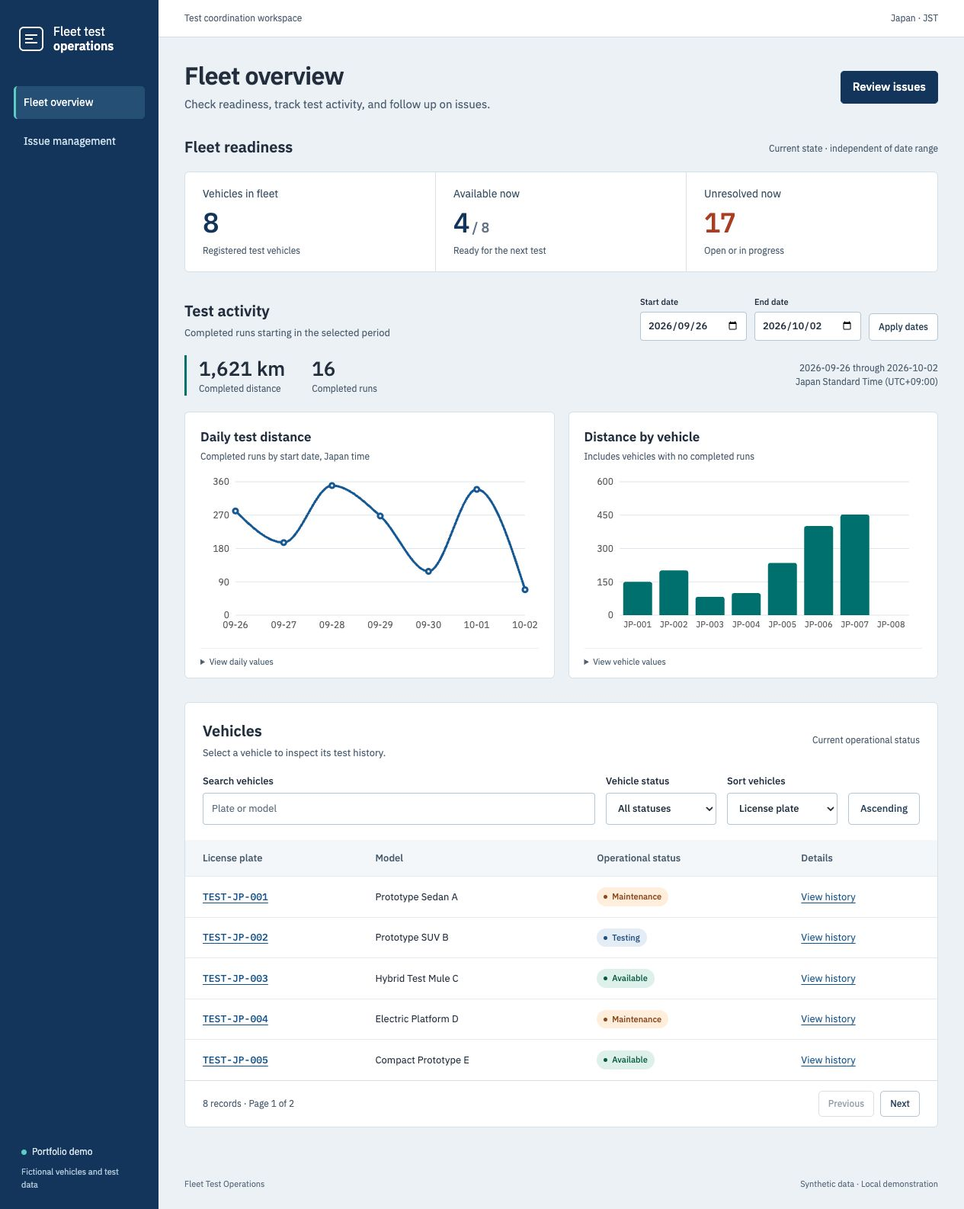
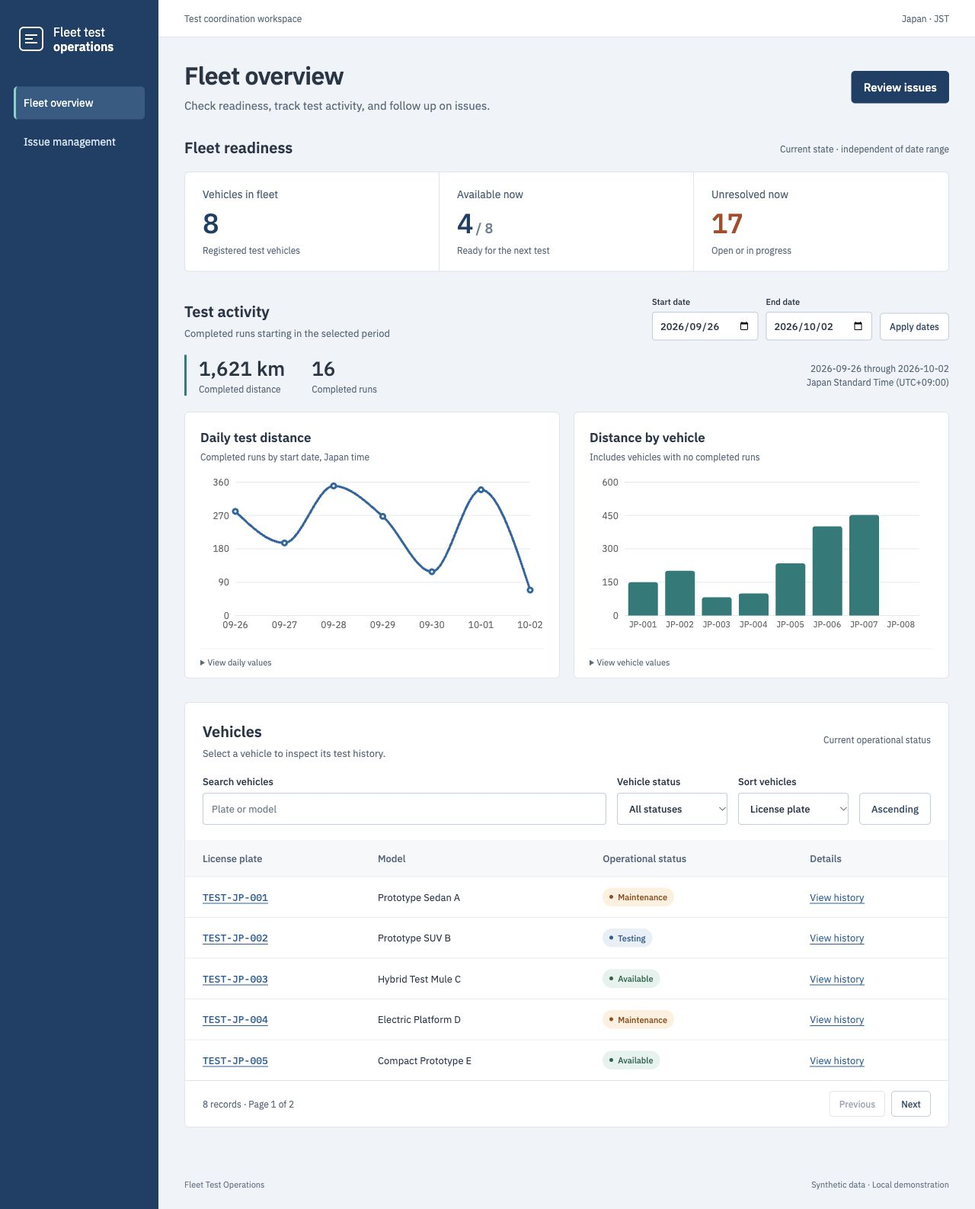
style: remove portfolio label and add README language switch

diff --git a/apps/web/src/styles.css b/apps/web/src/styles.css
@@ -175,25 +175,6 @@ summary:focus-visible {
   border-left: 3px solid #76d2ca;
   padding-left: 10px;
 }
-.rail-footer {
-  margin-top: auto;
-  padding: 0 10px;
-  color: #e0eaf1;
-  font-size: 12px;
-}
-.rail-footer p {
-  color: #b9ccdf;
-  font-size: 11px;
-  margin: 9px 0 0;
-}
-.demo-indicator {
-  display: inline-block;
-  width: 7px;
-  height: 7px;
-  background: #76d2ca;
-  border-radius: 50%;
-  margin-right: 7px;
-}
 .workspace {
   min-width: 0;
 }
@@ -697,9 +678,6 @@ tbody tr:hover {
     border-left: 0;
     border-bottom: 2px solid #76d2ca;
     padding-left: 9px;
-  }
-  .rail-footer {
-    display: none;
   }
   .workspace-bar {
     padding: 11px 20px;

diff --git a/apps/web/src/App.tsx b/apps/web/src/App.tsx
@@ -26,10 +26,6 @@ export function App() {
           </NavLink>
           <NavLink to="/issues">Issue management</NavLink>
         </nav>
-        <div className="rail-footer">
-          <span className="demo-indicator" />
-          Portfolio demo<p>Fictional vehicles and test data</p>
-        </div>
       </aside>
       <div className="workspace">
         <div className="workspace-bar">

diff --git a/README.md b/README.md
@@ -1,8 +1,10 @@
 # Fleet Test Operations Dashboard
 
+[![Language: English. Switch to Japanese.](docs/readme-language-en.svg)](README.ja.md)
+
 A working full-stack portfolio demo for an automotive test coordinator: identify available vehicles, inspect test evidence, and record incident follow-up.
 
-Built with **React + TypeScript, Express, and PostgreSQL**. All application code and interface copy use English. Expand the Japanese documentation below.
+Built with **React + TypeScript, Express, and PostgreSQL**. All application code and interface copy use English.
 
 This is an independent project using fictional vehicles, drivers, and incidents. The scenario is a proposed business use case; it does not describe Bosch's internal systems.
 
@@ -136,141 +138,3 @@ This is solo development. Automated review is identified as automated. A remote 
 This demo has no authentication, live GPS, sensor streaming, AI inference, or notifications. Incident counts are not a device-health score. It is configured for a local fictional-data demonstration; adding organizational access control would be a separate production requirement.
 
 The [approved design](docs/superpowers/specs/2026-10-02-fleet-test-ops-design.md) and [implementation plan](docs/superpowers/plans/2026-10-02-fleet-test-ops.md) explain scope and acceptance criteria.
-
-<details>
-<summary><strong>日本語版を表示 / Japanese version</strong></summary>
-
-## プロジェクト概要
-
-車両テストの担当者が、利用可能な車両を確認し、テストの記録を調べ、不具合への対応を記録できるフルスタックのポートフォリオです。**React・TypeScript・Express・PostgreSQL**で実装しています。コード、コメント、画面表示、コミット、主要な開発資料は英語です。
-
-車両、運転者、不具合のデータはすべて架空です。独自に提案した業務シナリオであり、Bosch社内の実際のシステムを再現したものではありません。
-
-![ダッシュボード](docs/screenshots/overview.png)
-
-[不具合管理画面](docs/screenshots/issues.png) · [スマートフォン表示](docs/screenshots/overview-mobile.png) · [不具合登録フォーム](docs/screenshots/issue-form-mobile.png)
-
-## 業務上の操作の流れ
-
-**重大な未解決の不具合を確認 → 関連車両とテスト記録を確認 → 不具合を解決・再オープン → 車両の稼働状態を更新 → 再読み込みして保存結果を確認**します。
-
-| 画面           | 実装済みの機能                                                                                         |
-| -------------- | ------------------------------------------------------------------------------------------------------ |
-| ダッシュボード | 現在の車両状況、期間別走行距離、日別・車両別グラフ、数値表、車両の検索・絞り込み・並べ替え・ページ送り |
-| 車両詳細       | 期間指定のテスト履歴、運転者名の記録、走行距離、関連不具合数、稼働状態の保存                           |
-| 不具合管理     | 車両とテスト記録の選択、登録、URLによる絞り込み、重要度・対応状況の変更、解決日時、再オープン          |
-
-初期データは8台の車両、JSTの20日間にわたる60件のテスト、24件の不具合です。テストがない車両と、複数の不具合を持つテストも含みます。保存した変更によって表示件数は変わります。[5分間のデモ手順](docs/demo-walkthrough.md)を面接時の説明に利用できます。
-
-## 指標の定義
-
-| 指標                       | 対象と計算方法                                                                |
-| -------------------------- | ----------------------------------------------------------------------------- |
-| 車両数・現在利用可能な車両 | 全車両の現在の状態。利用可能とは`vehicles.status = 'available'`を指します     |
-| 現在未解決の不具合         | 日付に関係なく、`open`または`in_progress`の全不具合                           |
-| 完了済み走行距離・テスト数 | **開始時刻**が指定したJSTの日付範囲に入る完了済みテスト。中止・実施中は対象外 |
-| 日別走行距離               | 同じ完了済みテストをJSTの開始日で集計。該当テストがない日は0                  |
-| 車両別走行距離             | 同じ期間の集計。走行距離が0の登録車両も表示                                   |
-
-画面の終了日は含まれます。SQLでは翌日のJST午前0時を含まないUTCの半開区間を使います。時刻はJST（UTC+09:00）、距離はkmです。走行距離を不具合との結合前に集計し、1件のテストに複数の不具合があっても距離が重複しないようにしています。未記録の距離は説明付きのダッシュで表示します。
-
-## アーキテクチャと技術構成
-
-![アプリケーション構成図](docs/architecture.svg)
-
-[HTML版の構成図](docs/architecture.html)はダウンロードしてブラウザーで開けます。architecture-diagramスキルのコピー・PNG・PDFツールバーを保持しています。GitHub上では静的SVGをそのまま表示できます。画像・PDF出力は固定バージョンの外部ライブラリを使うため、ネットワーク接続が必要です。ブラウザーでの描画は確認済みですが、自動ダウンロードの取得は確認できませんでした。
-
-| 層             | 技術                                                                          |
-| -------------- | ----------------------------------------------------------------------------- |
-| フロントエンド | React、TypeScript、Vite、React Router、Recharts、同梱のIBM Plexフォント       |
-| API            | Node.js 24、Express 5、パラメータ化したPostgreSQLクエリ                       |
-| 入出力         | 共有TypeScript型とZodによる入力検証                                           |
-| データベース   | PostgreSQL 17、バージョン管理したSQLマイグレーション、再実行可能な初期データ  |
-| テスト         | Vitest、Testing Library、Supertest、実際のPostgreSQL、Playwright Chromium     |
-| 開発プロセス   | 機能ごとのコミット、Issue・PRテンプレート、固定リビジョンのGitHub Actions設定 |
-
-開発時はViteの`/api`プロキシを使います。本番用ビルドではExpressが画面とAPIを同じオリジンで提供します。車両詳細URLを直接開いても画面を表示し、存在しないAPIはJSONの404を返します。データベースの接続情報はサーバー側に保持します。古い読み取りリクエストをキャンセル・無効化し、遅れて届いた応答が新しい絞り込み結果を上書きしないようにしています。
-
-## SQLデータモデル
-
-![車両・テスト記録・不具合の関係図](docs/erd.svg)
-
-- `vehicles`：一意の車両番号、車両情報、現在の稼働状態。
-- `test_runs`：1台の車両に紐づく履歴。運転者名を当時の記録として保存し、開始・終了時刻、状態、距離を保持します。
-- `issues`：1件のテストに紐づく不具合。種類、説明、重要度、対応状況、解決日時を保持します。
-
-不具合の車両はテスト記録から取得するため、`issues`に`vehicle_id`を重複保存しません。外部キー、非負の距離、時刻の前後関係、完了テストの必須項目、状態、説明文の長さ、解決日時の整合性をSQL制約で保証します。`schema_migrations`は適用済みバージョンを記録する補助テーブルです。
-
-[データモデルの設計理由](docs/database-model.md)と[マイグレーション](database/migrations/001_initial.sql)を参照してください。
-
-## ローカル環境での起動
-
-**Node.js 24.x、npm、PostgreSQL 17**が必要です。`node --version`を確認し、リポジトリのルートで実行してください。新しく取得した環境では：
-
-```sh
-npm ci
-cp .env.example .env
-```
-
-インストール時に共有型パッケージを自動ビルドします。データベースの準備方法を選びます。
-
-- **インストール済みPostgreSQL：** [ネイティブ環境の準備手順](docs/local-postgresql.md)に従うか、専用の既存ローカルDBを`DATABASE_URL`に指定します。PostgreSQL 17.5とNode 24.21.0で、依存関係の新規インストールと空DBからの起動を確認しています。
-- **Dockerを使う場合：** `docker compose up -d --wait`を実行します。PostgreSQL 17をループバックの5433番ポートで起動し、`.env.example`のサンプル接続情報を使います。設定は用意していますが、ローカルのDockerが停止していたため起動自体は未検証です。
-
-空いているポートを使い、必要に応じて`DATABASE_URL`を変更してください。その後：
-
-```sh
-npm run db:migrate
-npm run db:seed
-npm run dev
-```
-
-[ローカルデモ](http://127.0.0.1:5173)を開きます。APIは127.0.0.1:3001で動作します。開発中は両アプリケーションと共有型の変更を監視します。
-
-マイグレーションは適用履歴を管理し、初期データの再実行は既存の変更を保持します。初期データの日付は最初に作成した時点を基準にします。日付を新しくしたデモデータに意図的に戻す場合：
-
-```sh
-npm run db:reset-demo
-```
-
-**リセットは`issues`、`test_runs`、`vehicles`に保存した変更を置き換えます。** ループバックの`fleet_ops`というDBに限定し、マイグレーション履歴を保持します。通常の起動とは独立しており、名前付きスクリプトが明示的な確認フラグを渡します。ガードの動作はDBテストで確認しています。
-
-本番用ビルドを起動する場合：
-
-```sh
-npm run build
-npm start
-```
-
-[本番ビルドのデモ](http://127.0.0.1:3001)を開きます。マイグレーションと初期データ投入は別途必要です。アプリケーションはCtrl+Cで停止します。
-
-## 検証
-
-`.env`または`DATABASE_URL`でPostgreSQLに接続できる状態で：
-
-```sh
-npm run format:check
-npm run typecheck
-npm run lint
-npm test
-npm run build
-npx playwright install chromium
-npm run test:e2e
-npm run test:smoke
-```
-
-結合テストは独立したスキーマを作成・削除するため、利用するDBロールにスキーマ作成権限が必要です。ブラウザーテストは専用のAPI・Webサーバー（3002/5174番）を起動し、準備状態を待ってSQLへの保存を確認し、終了後にスキーマを削除します。本番スモークテストはコンパイル済みサーバーを3003番で起動し、ページ遷移、JSONエラー、ビルド済みファイルを確認します。
-
-結果は[検証記録](docs/verification.md)を参照してください。ローカルでの確認と自動レビューを記録しています。GitHub上のCIはまだ実行していません。
-
-## 開発の証跡と制限
-
-[GitHubワークフローの記録](docs/github-workflow.md)に、実際の機能別コミットと検証結果があります。`.github`に業務要件・不具合のフォーム、PRテンプレート、CI設定を用意しています。Actionsは確認済みリリースのコミットに固定しています。
-
-個人開発であり、自動レビューは自動レビューとして記載しています。公開先リポジトリは未指定のため、GitHub Issue・PRの作成、リモートCIの成功、公開デプロイは実施したとは記載していません。
-
-認証、リアルタイムGPS、センサーストリーミング、AI推論、通知機能は対象外です。不具合数から機器の健全性スコアを算出していません。架空データを使ったローカルデモを想定しており、組織向けのアクセス制御は別途必要です。
-
-[承認済みの設計書](docs/superpowers/specs/2026-10-02-fleet-test-ops-design.md)と[実装計画](docs/superpowers/plans/2026-10-02-fleet-test-ops.md)に範囲と受け入れ基準を記載しています。
-
-</details>

diff --git a/README.ja.md b/README.ja.md
@@ -1,0 +1,136 @@
+# Fleet Test Operations Dashboard
+
+[![言語: 日本語。英語に切り替える](docs/readme-language-ja.svg)](README.md)
+
+## プロジェクト概要
+
+車両テストの担当者が、利用可能な車両を確認し、テストの記録を調べ、不具合への対応を記録できるフルスタックのポートフォリオです。**React・TypeScript・Express・PostgreSQL**で実装しています。コード、コメント、画面表示、コミット、主要な開発資料は英語です。
+
+車両、運転者、不具合のデータはすべて架空です。独自に提案した業務シナリオであり、Bosch社内の実際のシステムを再現したものではありません。
+
+![ダッシュボード](docs/screenshots/overview.png)
+
+[不具合管理画面](docs/screenshots/issues.png) · [スマートフォン表示](docs/screenshots/overview-mobile.png) · [不具合登録フォーム](docs/screenshots/issue-form-mobile.png)
+
+## 業務上の操作の流れ
+
+**重大な未解決の不具合を確認 → 関連車両とテスト記録を確認 → 不具合を解決・再オープン → 車両の稼働状態を更新 → 再読み込みして保存結果を確認**します。
+
+| 画面           | 実装済みの機能                                                                                         |
+| -------------- | ------------------------------------------------------------------------------------------------------ |
+| ダッシュボード | 現在の車両状況、期間別走行距離、日別・車両別グラフ、数値表、車両の検索・絞り込み・並べ替え・ページ送り |
+| 車両詳細       | 期間指定のテスト履歴、運転者名の記録、走行距離、関連不具合数、稼働状態の保存                           |
+| 不具合管理     | 車両とテスト記録の選択、登録、URLによる絞り込み、重要度・対応状況の変更、解決日時、再オープン          |
+
+初期データは8台の車両、JSTの20日間にわたる60件のテスト、24件の不具合です。テストがない車両と、複数の不具合を持つテストも含みます。保存した変更によって表示件数は変わります。[5分間のデモ手順](docs/demo-walkthrough.md)を面接時の説明に利用できます。
+
+## 指標の定義
+
+| 指標                       | 対象と計算方法                                                                |
+| -------------------------- | ----------------------------------------------------------------------------- |
+| 車両数・現在利用可能な車両 | 全車両の現在の状態。利用可能とは`vehicles.status = 'available'`を指します     |
+| 現在未解決の不具合         | 日付に関係なく、`open`または`in_progress`の全不具合                           |
+| 完了済み走行距離・テスト数 | **開始時刻**が指定したJSTの日付範囲に入る完了済みテスト。中止・実施中は対象外 |
+| 日別走行距離               | 同じ完了済みテストをJSTの開始日で集計。該当テストがない日は0                  |
+| 車両別走行距離             | 同じ期間の集計。走行距離が0の登録車両も表示                                   |
+
+画面の終了日は含まれます。SQLでは翌日のJST午前0時を含まないUTCの半開区間を使います。時刻はJST（UTC+09:00）、距離はkmです。走行距離を不具合との結合前に集計し、1件のテストに複数の不具合があっても距離が重複しないようにしています。未記録の距離は説明付きのダッシュで表示します。
+
+## アーキテクチャと技術構成
+
+![アプリケーション構成図](docs/architecture.svg)
+
+[HTML版の構成図](docs/architecture.html)はダウンロードしてブラウザーで開けます。architecture-diagramスキルのコピー・PNG・PDFツールバーを保持しています。GitHub上では静的SVGをそのまま表示できます。画像・PDF出力は固定バージョンの外部ライブラリを使うため、ネットワーク接続が必要です。ブラウザーでの描画は確認済みですが、自動ダウンロードの取得は確認できませんでした。
+
+| 層             | 技術                                                                          |
+| -------------- | ----------------------------------------------------------------------------- |
+| フロントエンド | React、TypeScript、Vite、React Router、Recharts、同梱のIBM Plexフォント       |
+| API            | Node.js 24、Express 5、パラメータ化したPostgreSQLクエリ                       |
+| 入出力         | 共有TypeScript型とZodによる入力検証                                           |
+| データベース   | PostgreSQL 17、バージョン管理したSQLマイグレーション、再実行可能な初期データ  |
+| テスト         | Vitest、Testing Library、Supertest、実際のPostgreSQL、Playwright Chromium     |
+| 開発プロセス   | 機能ごとのコミット、Issue・PRテンプレート、固定リビジョンのGitHub Actions設定 |
+
+開発時はViteの`/api`プロキシを使います。本番用ビルドではExpressが画面とAPIを同じオリジンで提供します。車両詳細URLを直接開いても画面を表示し、存在しないAPIはJSONの404を返します。データベースの接続情報はサーバー側に保持します。古い読み取りリクエストをキャンセル・無効化し、遅れて届いた応答が新しい絞り込み結果を上書きしないようにしています。
+
+## SQLデータモデル
+
+![車両・テスト記録・不具合の関係図](docs/erd.svg)
+
+- `vehicles`：一意の車両番号、車両情報、現在の稼働状態。
+- `test_runs`：1台の車両に紐づく履歴。運転者名を当時の記録として保存し、開始・終了時刻、状態、距離を保持します。
+- `issues`：1件のテストに紐づく不具合。種類、説明、重要度、対応状況、解決日時を保持します。
+
+不具合の車両はテスト記録から取得するため、`issues`に`vehicle_id`を重複保存しません。外部キー、非負の距離、時刻の前後関係、完了テストの必須項目、状態、説明文の長さ、解決日時の整合性をSQL制約で保証します。`schema_migrations`は適用済みバージョンを記録する補助テーブルです。
+
+[データモデルの設計理由](docs/database-model.md)と[マイグレーション](database/migrations/001_initial.sql)を参照してください。
+
+## ローカル環境での起動
+
+**Node.js 24.x、npm、PostgreSQL 17**が必要です。`node --version`を確認し、リポジトリのルートで実行してください。新しく取得した環境では：
+
+```sh
+npm ci
+cp .env.example .env
+```
+
+インストール時に共有型パッケージを自動ビルドします。データベースの準備方法を選びます。
+
+- **インストール済みPostgreSQL：** [ネイティブ環境の準備手順](docs/local-postgresql.md)に従うか、専用の既存ローカルDBを`DATABASE_URL`に指定します。PostgreSQL 17.5とNode 24.21.0で、依存関係の新規インストールと空DBからの起動を確認しています。
+- **Dockerを使う場合：** `docker compose up -d --wait`を実行します。PostgreSQL 17をループバックの5433番ポートで起動し、`.env.example`のサンプル接続情報を使います。設定は用意していますが、ローカルのDockerが停止していたため起動自体は未検証です。
+
+空いているポートを使い、必要に応じて`DATABASE_URL`を変更してください。その後：
+
+```sh
+npm run db:migrate
+npm run db:seed
+npm run dev
+```
+
+[ローカルデモ](http://127.0.0.1:5173)を開きます。APIは127.0.0.1:3001で動作します。開発中は両アプリケーションと共有型の変更を監視します。
+
+マイグレーションは適用履歴を管理し、初期データの再実行は既存の変更を保持します。初期データの日付は最初に作成した時点を基準にします。日付を新しくしたデモデータに意図的に戻す場合：
+
+```sh
+npm run db:reset-demo
+```
+
+**リセットは`issues`、`test_runs`、`vehicles`に保存した変更を置き換えます。** ループバックの`fleet_ops`というDBに限定し、マイグレーション履歴を保持します。通常の起動とは独立しており、名前付きスクリプトが明示的な確認フラグを渡します。ガードの動作はDBテストで確認しています。
+
+本番用ビルドを起動する場合：
+
+```sh
+npm run build
+npm start
+```
+
+[本番ビルドのデモ](http://127.0.0.1:3001)を開きます。マイグレーションと初期データ投入は別途必要です。アプリケーションはCtrl+Cで停止します。
+
+## 検証
+
+`.env`または`DATABASE_URL`でPostgreSQLに接続できる状態で：
+
+```sh
+npm run format:check
+npm run typecheck
+npm run lint
+npm test
+npm run build
+npx playwright install chromium
+npm run test:e2e
+npm run test:smoke
+```
+
+結合テストは独立したスキーマを作成・削除するため、利用するDBロールにスキーマ作成権限が必要です。ブラウザーテストは専用のAPI・Webサーバー（3002/5174番）を起動し、準備状態を待ってSQLへの保存を確認し、終了後にスキーマを削除します。本番スモークテストはコンパイル済みサーバーを3003番で起動し、ページ遷移、JSONエラー、ビルド済みファイルを確認します。
+
+結果は[検証記録](docs/verification.md)を参照してください。ローカルでの確認と自動レビューを記録しています。GitHub上のCIはまだ実行していません。
+
+## 開発の証跡と制限
+
+[GitHubワークフローの記録](docs/github-workflow.md)に、実際の機能別コミットと検証結果があります。`.github`に業務要件・不具合のフォーム、PRテンプレート、CI設定を用意しています。Actionsは確認済みリリースのコミットに固定しています。
+
+個人開発であり、自動レビューは自動レビューとして記載しています。公開先リポジトリは未指定のため、GitHub Issue・PRの作成、リモートCIの成功、公開デプロイは実施したとは記載していません。
+
+認証、リアルタイムGPS、センサーストリーミング、AI推論、通知機能は対象外です。不具合数から機器の健全性スコアを算出していません。架空データを使ったローカルデモを想定しており、組織向けのアクセス制御は別途必要です。
+
+[承認済みの設計書](docs/superpowers/specs/2026-10-02-fleet-test-ops-design.md)と[実装計画](docs/superpowers/plans/2026-10-02-fleet-test-ops.md)に範囲と受け入れ基準を記載しています。

diff --git a/docs/superpowers/plans/2026-10-02-fleet-test-ops.md b/docs/superpowers/plans/2026-10-02-fleet-test-ops.md
@@ -2,7 +2,7 @@
 
 > **For agentic workers:** REQUIRED SUB-SKILL: Use superpowers:subagent-driven-development (recommended) or superpowers:executing-plans to implement this plan task-by-task. Steps use checkbox (`- [ ]`) syntax for tracking.
 
-**Goal:** Build a reviewable English-language fleet operations application with real PostgreSQL persistence, a complete incident workflow, and an English README with an expandable Japanese version.
+**Goal:** Build a reviewable English-language fleet operations application with real PostgreSQL persistence, a complete incident workflow, and an English README with a switchable Japanese version.
 
 **Architecture:** A React/Vite web application calls a TypeScript/Express API. The API uses shared Zod contracts and parameterized PostgreSQL queries. Versioned SQL migrations, deterministic sample data, and focused database/browser tests make the business behavior inspectable.
 
@@ -15,7 +15,7 @@
 ## Global Constraints
 
 - Use English for identifiers, comments, interface copy, API errors, commit messages, Issues, PR descriptions, tests, and primary documentation.
-- Include a complete Japanese README version inside a native `<details>` block with `<summary>日本語版を表示 / Japanese version</summary>`.
+- Provide one English/Japanese language switch at the top of the README, linking `README.md` and `README.ja.md` so only the selected language is displayed.
 - Keep English and Japanese sections aligned as documentation evolves. Translate meaning and metric definitions, not code identifiers or commands.
 - Use the architecture-diagram skill to produce an English HTML diagram and a matching static SVG embedded in the README. Include a separate ER diagram.
 - All sample vehicles, people, and incidents are fictional.
@@ -496,7 +496,7 @@ npm run test:e2e
 
 Set DATABASE_URL to the CI PostgreSQL service. Database fixtures isolate schemas for the test process. Browser orchestration uses its own schema and explicit application ports; wait for health readiness rather than fixed sleeps. Preserve failure reports/screenshots as workflow artifacts. Pin Actions versions to verified release SHAs when authoring the workflow.
 
-- [x] **Step 4: Finish and verify both README languages.** Replace design-phase labels with actual implementation status only after verification. Add application screenshots, exact prerequisites, the central demo flow, metric semantics, working setup/test commands, ER rationale, and limitations in both English and Japanese. Keep the existing native Japanese toggle and static architecture/ER images.
+- [x] **Step 4: Finish and verify both README languages.** Replace design-phase labels with actual implementation status only after verification. Add application screenshots, exact prerequisites, the central demo flow, metric semantics, working setup/test commands, ER rationale, and limitations in both English and Japanese. Keep the English/Japanese language switch and static architecture/ER images.
 
 Verify the setup sequence against a fresh local database, preserving the developer's existing database:
 

diff --git a/docs/verification.md b/docs/verification.md
@@ -15,7 +15,7 @@ Verified locally on 2026-10-02 with Node 24.21.0 and PostgreSQL 17.5. This recor
 | `npm run test:e2e`        | 3 Chromium workflows passed using a generated database schema                                                           |
 | `npm run test:smoke`      | Compiled index, direct vehicle navigation, readiness, API 404, built asset, missing asset, non-navigation checks passed |
 | Dependency audit          | No reported vulnerabilities after the targeted esbuild 0.28.2 resolution                                                |
-| Documentation             | Japanese disclosure expanded, images loaded, architecture HTML rendered; static SVG/ER targets included                 |
+| Documentation             | English/Japanese switch works in both directions, images loaded, architecture HTML rendered; SVG/ER targets included    |
 
 ## Behavior evidence
 
@@ -56,6 +56,12 @@ These are the complete recorded rulings, in decision order, with the cost if a d
 5. Leave actual Docker startup unverified because the daemon is stopped. Native PostgreSQL provides the verified local demo and the README identifies the alternative accurately. Cost: Docker-specific startup problems may remain.
 6. Leave hosted Actions, remote Issues/PRs, and public deployment unexecuted because no remote destination was supplied. Committed configuration, templates, branch history, and local evidence describe the workflow honestly. Cost: hosted environment or repository configuration may need changes.
 7. Leave architecture PNG/PDF downloads unverified because download capture was unavailable. HTML and static SVG render and the README discloses the limitation. Cost: export controls may need repair; static diagrams remain usable.
+
+## Presentation refinement
+
+On 2026-10-02, the user requested removal of the lower-left portfolio label and a single English/Japanese README switch. The sidebar's portfolio footer and its unused styles were removed. The complete Japanese content moved to `README.ja.md`; both documents use one linked SVG control that highlights the selected language and opens the other version. This follows GitHub's support for [repository-relative Markdown links](https://docs.github.com/en/get-started/writing-on-github/getting-started-with-writing-and-formatting-on-github/basic-writing-and-formatting-syntax#relative-links).
+
+The production build, lint, and formatting checks passed. Both README switch directions were exercised in a local Markdown preview; images loaded, local link targets exist, and both SVG controls parse as valid XML. The running production UI no longer displays the sidebar label, and the desktop documentation screenshots were refreshed. This follow-up changes presentation and documentation; the earlier 94-test and three-workflow record above describes the verified application behavior before this refinement.
 
 ## Limits of this evidence
 

diff --git a/docs/superpowers/specs/2026-10-02-fleet-test-ops-design.md b/docs/superpowers/specs/2026-10-02-fleet-test-ops-design.md
@@ -15,7 +15,7 @@ Success means a reviewer can follow a three-minute workflow: discover a severe u
 ## Language requirements
 
 - Use English for identifiers, comments, interface copy, API errors, commit messages, Issues, PR descriptions, tests, and primary documentation.
-- Include a complete Japanese README version inside a native `<details>` block with `<summary>日本語版を表示 / Japanese version</summary>`.
+- Provide one English/Japanese language switch at the top of the README, linking `README.md` and `README.ja.md` so only the selected language is displayed.
 - Keep English and Japanese sections aligned as documentation evolves. Translate meaning and metric definitions, not code identifiers or commands.
 - Use the architecture-diagram skill to produce an English HTML diagram and a matching static SVG embedded in the README. Include a separate ER diagram.
 
